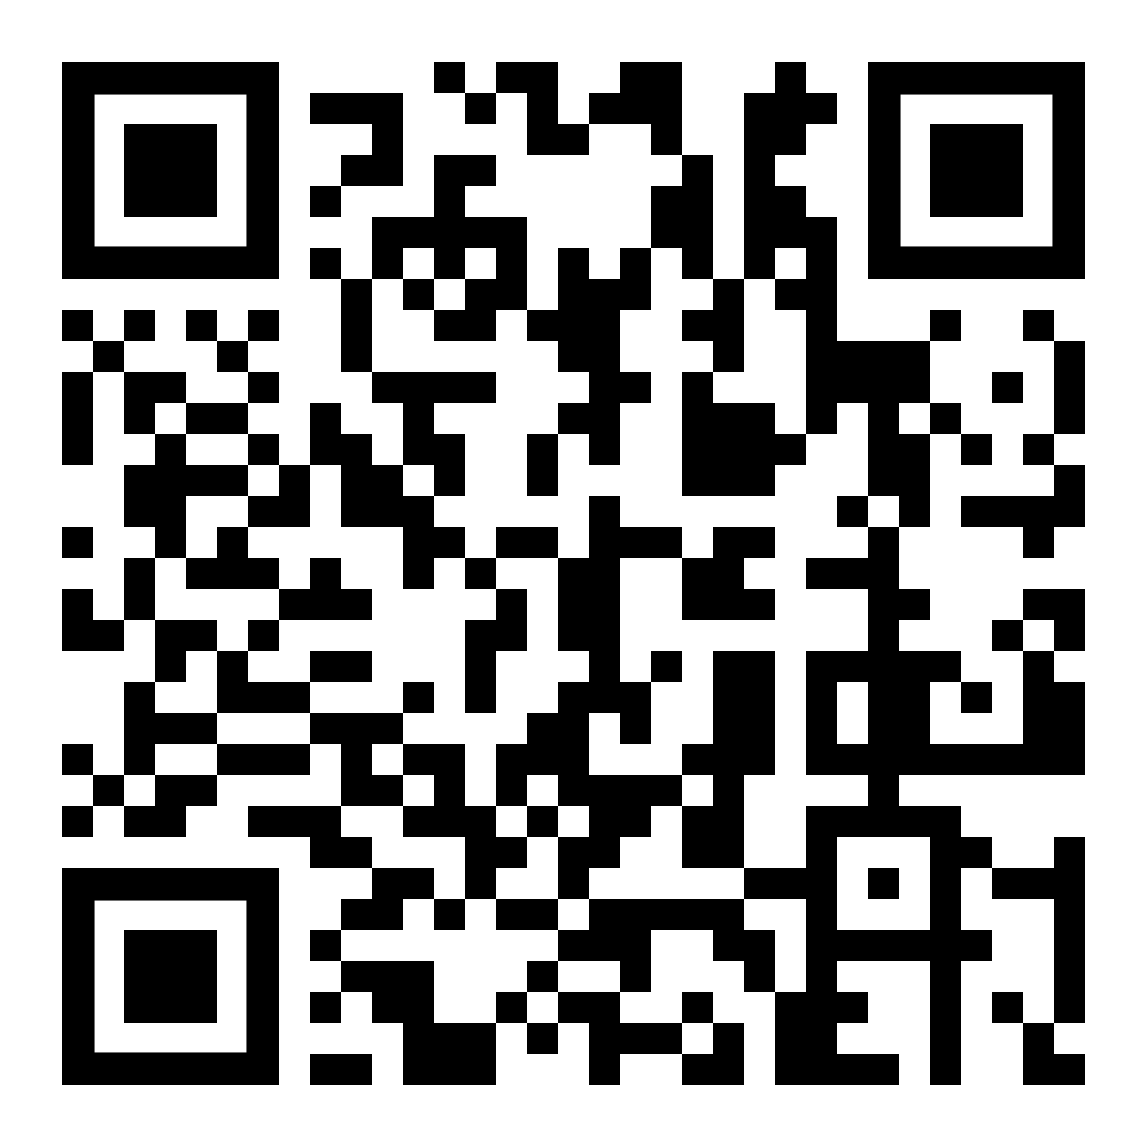
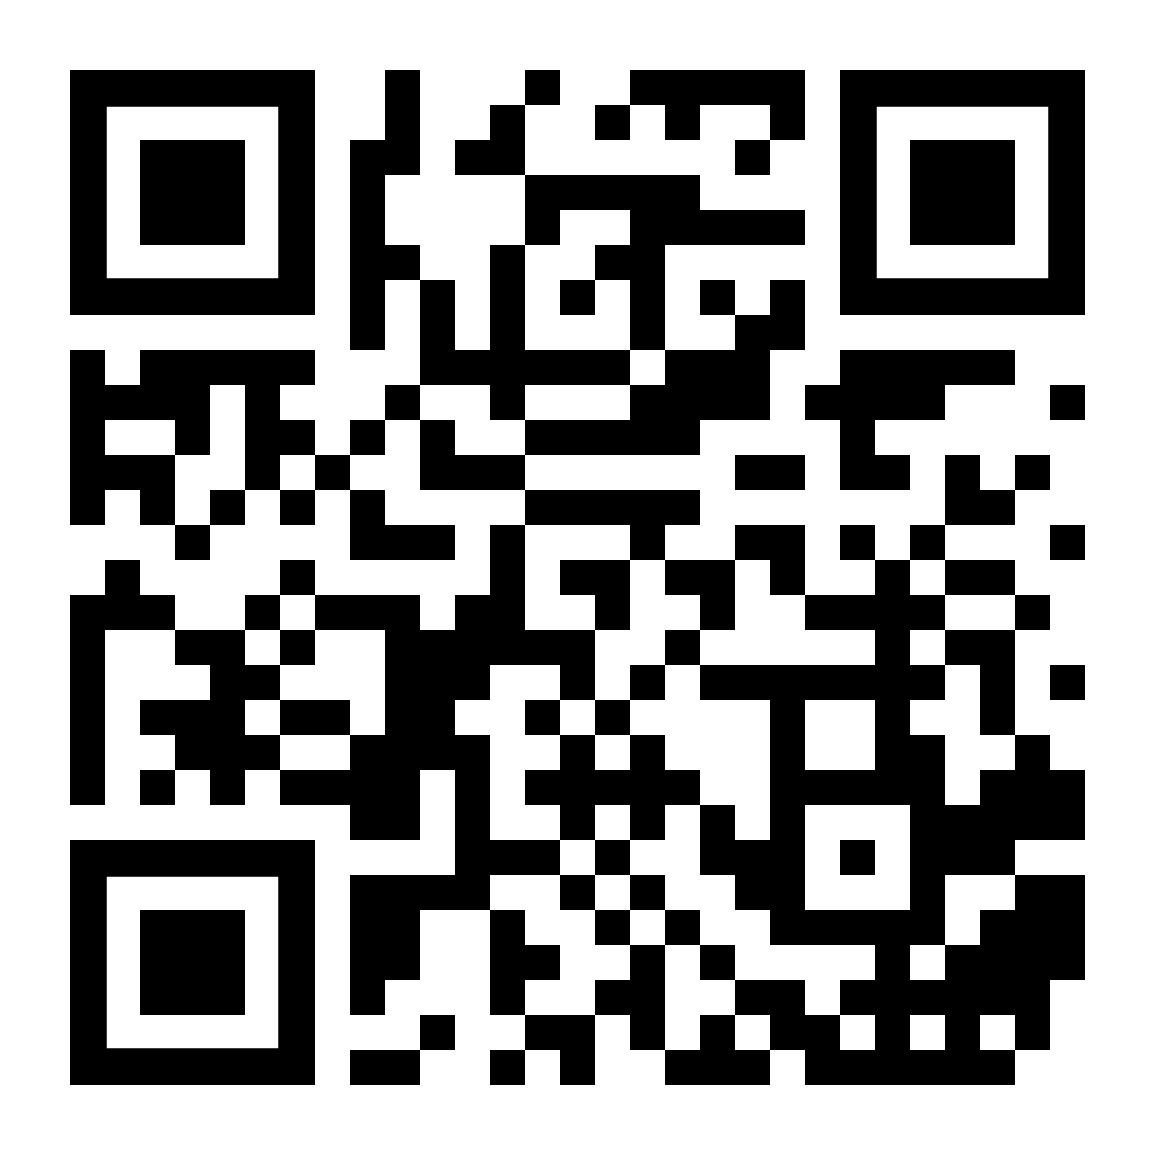
Updated QR code

diff --git a/main.tex b/main.tex
@@ -18,7 +18,7 @@
 
 %\setbeamertemplate{background}[grid][step=.25\textwidth]
 
-\title[5ede7725bc5fe50001c52f50]{Reconstructing prehistoric human demography using end-to-end Bayesian analysis of radiocarbon dates}
+\title[fvhsgrhhfdss]{Reconstructing prehistoric human demography using end-to-end Bayesian analysis of radiocarbon dates}
 %\subtitle
 \author{Michael Holton Price}
 \institute[SFI] {
@@ -43,8 +43,7 @@
 \begin{frame}
   \frametitle{Accessing presentation and code}
   \centering
-  \Large
-  www.overleaf.com/project/TEXT-AT-BOTTOM
+  https://www.overleaf.com/read/TEXT-AT-BOTTOM
   \includegraphics[height=.85\textheight]{qr-code.png}
 \end{frame}
 
@@ -53,7 +52,12 @@
     \frametitle{Follow Along / Run the Code Yourself}
     \centering
     \Large
+      \href{https://www.overleaf.com/read/fvhsgrhhfdss}{https://www.overleaf.com/read/fvhsgrhhfdss}
+      
+      \bigskip
+      
       \href{https://github.com/eehh-stanford/baydem}{https://github.com/eehh-stanford/baydem}
+      
       \bigskip
         
       \href{https://github.com/eehh-stanford/price2020}{https://github.com/eehh-stanford/price2020}
